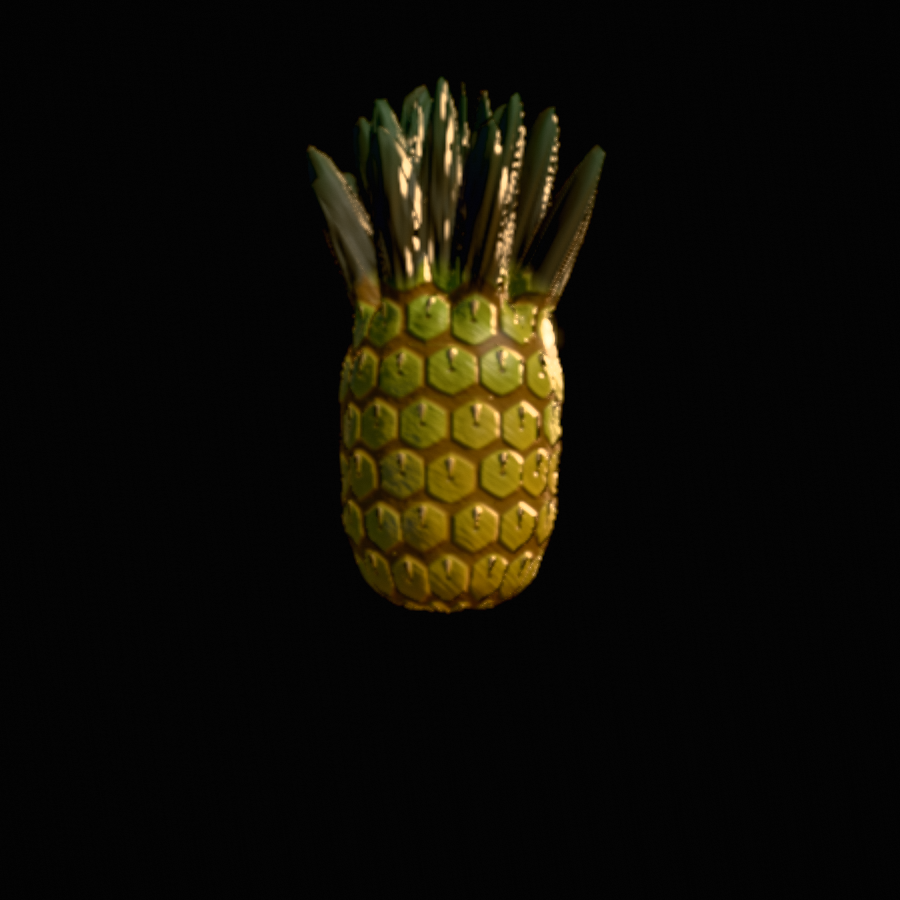
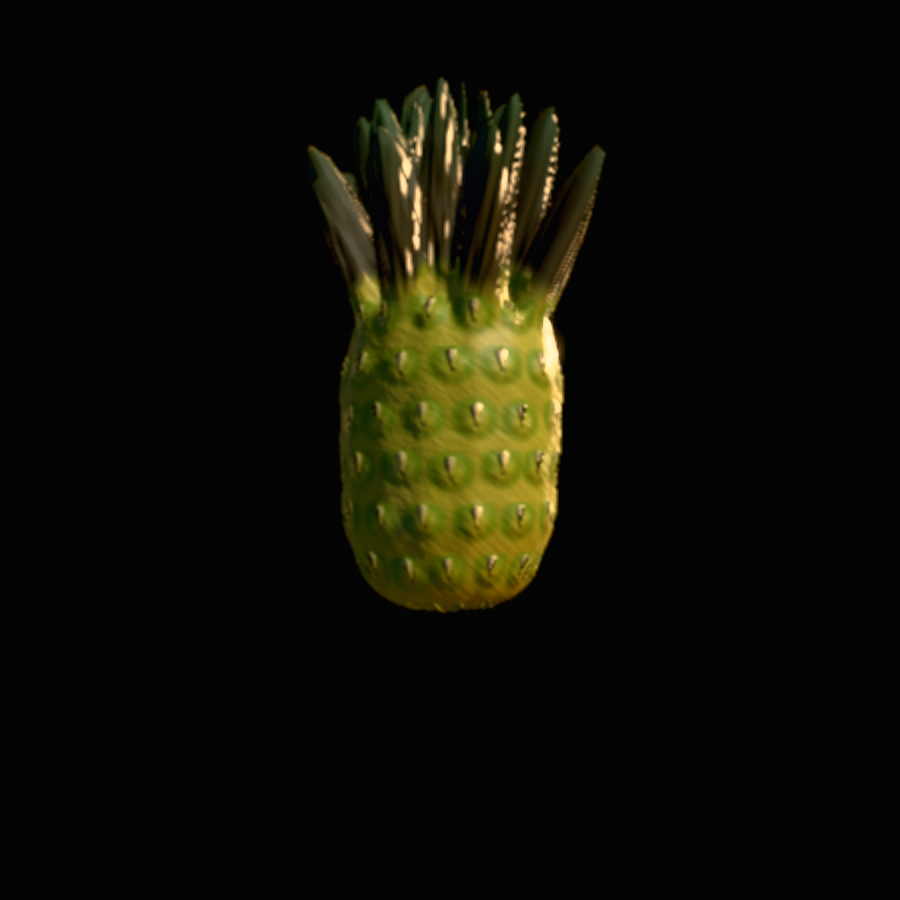
r47b: the pineapple shell is cushions and bracts, not a honeycomb
The device capture of r47's hex plates read as "too geometric, not
organic" — the groove network was a honeycomb, and the reference close-up
says a fruitlet is nothing like that: the upper half is a soft green
cushion ringed by a darker green band (between a circle and a hexagon),
the lower half is pale yellow-green and flows into its neighbours with no
edge at all, and a dry cream bract stands up from the eye at the centre,
its base flaring into a soft pale star.

So the shell is a continuous pale yellow-green skin with cushions and
bracts on it and every transition a gradient: no grooves, no rims, no
plate edges. The cushion outline is the hex norm weighted 35/65 with the
round one; the dark band is green (0.125, 0.195, 0.035), not brown; faint
pinkish-brown veins cross the flats. Relief: cushion up, band as its
shaded underside, bract sharp, star low. Budget: flat 0.300 x 1.08 grain
= 0.324 linear R, cream bract 0.340, both under the 0.418 ceiling.

Changed region(s): [[0.3733, 0.28, 0.6533, 0.6844], [0.4356, 0.2489, 0.4667, 0.28]]

diff --git a/src/fruit/species.js b/src/fruit/species.js
@@ -3880,33 +3880,39 @@ def({
     // stays green. Twelve plates around, alternate rows offset half a cell
     // (a hex packing), one-tap cellPt with a wide margin so the packing is
     // regular-with-a-wobble rather than jittered.
+    // r47b — NOT A HONEYCOMB. The first r47 pass drew the fruitlets as hex
+    // plates with a groove network and the player's device capture read as
+    // "too geometric, not organic". His close-up of the reference says what
+    // a fruitlet actually is: the UPPER half is a soft green cushion ringed
+    // by a darker green band (halfway between a circle and a hexagon); the
+    // LOWER half is pale yellow-green and simply flows into its neighbours —
+    // there is no groove and no edge anywhere; and a dry cream bract stands
+    // up from the eye at the centre, its base flaring into a soft pale star.
+    // So: cushions and bracts on a continuous skin, every edge a gradient.
     const eyes = ({ P, lon }) => {
       const v = P.y;
-      // 14 plates around, ~9 rows up the barrel: on the reference photo the
-      // fruitlets are wider than tall (about 1.4:1) and nearly touch
       const row = v.mul(2.40).add(50.0).toVar();          // positive, for floor/mod
       const shift = floor(row).mod(2.0).mul(0.5);
       const p = vec2(lon.div(Math.PI * 2).add(0.5).mul(14.0).add(shift), row).toVar();
       const c = cellPt(p, 5.0, 1.0, 14, 0.44);
       const d = c.d;
-      // a fruitlet is a HEXAGON, not a coin: a flat-top hex norm in cell
-      // space (rows are offset half a cell, so neighbours sit at ±60°) makes
-      // the plates fill the shell and leaves the grooves as a thin network
-      const ox = abs(c.off.x), oy = abs(c.off.y);
-      // (blended 70/30 with the round distance so the corners are rounded —
-      // a fruitlet is a cushion, not a honeycomb cell)
-      const hx = max(ox, ox.mul(0.5).add(oy.mul(0.92))).mul(0.7).add(d.mul(0.3)).toVar();
-      // the bract: a pale thorn rising from the eye at the plate's centre to
-      // its top edge — wider at the base, drawn to a point
-      const sy = c.off.y;
-      const spike = ss(0.11, 0.02,
-        ox.add(ss(0.34, 0.0, sy).mul(0.09)).add(ss(0.02, -0.05, sy).mul(0.3)).add(ss(0.36, 0.50, sy).mul(0.3))).toVar();
+      const ox = abs(c.off.x), oy = c.off.y;
+      // the cushion sits a little above the eye; its outline is a hex norm
+      // blended half with the round one — the reference's ring shape
+      const cy = oy.sub(0.14);
+      const hd = max(ox, ox.mul(0.5).add(abs(cy).mul(0.92))).mul(0.35)
+        .add(length(vec2(ox, cy.mul(1.25))).mul(0.65)).toVar();
+      const dome = ss(0.55, 0.12, hd).toVar();                       // the soft cushion
+      const ring = ss(0.58, 0.36, hd).mul(ss(0.12, 0.34, hd)).toVar(); // its darker band
+      // the bract: a dry thorn from the eye to the top edge, wider at the base
+      const spike = ss(0.13, 0.02,
+        ox.add(ss(0.34, 0.0, oy).mul(0.10)).add(ss(0.02, -0.06, oy).mul(0.3)).add(ss(0.38, 0.52, oy).mul(0.3))).toVar();
+      // its base flares into a pale five-point star (soft, low)
+      const ang = atan(c.off.y, c.off.x);
+      const star = ss(0.34, 0.06, d.mul(cos(ang.mul(5.0)).mul(0.18).add(1.0))).toVar();
       return {
-        plate: ss(0.51, 0.40, hx).toVar(),    // the raised boss, out to the wall
-        top: ss(0.40, 0.18, hx).toVar(),      // its domed waxy crown
-        rim: ss(0.22, 0.38, hx).mul(ss(0.51, 0.42, hx)).toVar(),   // the lit lip
-        groove: ss(0.40, 0.55, hx).toVar(),   // the network between plates
-        spike, eye: ss(0.11, 0.03, d.add(sy.abs().mul(0.4))).toVar(),
+        dome, ring, spike, star,
+        eye: ss(0.09, 0.02, d).toVar(),
         id: c.id, fade: cellFade(p).toVar(), v,
       };
     };
@@ -3914,40 +3920,38 @@ def({
     return skinMaterial(this, {
       albedo: (f, u) => {
         const e = eyes(f);
-        // ripens base → crown (v is ±1.9 on this body): gold-yellow below, the
-        // shoulder under the crown still green-yellow; plates spread around
-        // the gradient by their own id so no two neighbours match
+        // pale yellow-green skin, a touch more yellow at the base, green
+        // cushions everywhere; per-plate spread so no two neighbours match
         const t = e.v.mul(0.26).add(0.5).clamp(0.0, 1.0);
-        // green comes in patches on the photo, not as a clean gradient: a
-        // low-frequency field over the shoulder gradient, then per-plate spread
-        const patch = grain(f, u, 1.6).mul(0.5).add(0.5);
-        const ripe = ss(0.15, 0.85, t).mul(0.55).add(patch.mul(0.45)).add(e.id.sub(0.5).mul(0.25)).clamp(0.0, 1.0);
-        // Case B budget: 0.320 x 1.07 grain x 1.12 rim = 0.384 linear R, under
-        // contract v5's 0.418 ceiling (the r3 plate was 0.371)
-        const gold = vec3(0.3200, 0.2100, 0.0300), green = vec3(0.1900, 0.2500, 0.0500);
-        const plateC = mix(gold, green, ripe).mul(grain(f, u, 10.0).mul(0.14).add(0.93))
-          .mul(e.rim.mul(0.12).add(1.0)).toVar();
-        // grooves are orange-brown; the bract is pale tan on a dark eye
-        const grooveC = vec3(0.1300, 0.0720, 0.0160);
-        const spikeC = vec3(0.3000, 0.2300, 0.1300), eyeC = vec3(0.0700, 0.0440, 0.0140);
-        const alb = mix(grooveC, plateC, e.plate).toVar();
-        alb.assign(mix(alb, eyeC, e.eye.mul(0.85)));
-        alb.assign(mix(alb, spikeC, e.spike.mul(0.95)));
-        // sub-pixel (the far half, the small tier): settle to the shell's mean
-        return mix(mix(grooveC, plateC, 0.7), alb, e.fade);
+        const base = ss(0.55, 0.05, t).mul(0.5).toVar();
+        const spread = e.id.sub(0.5).mul(0.3);
+        // Case B budget: flat 0.300 x 1.08 grain = 0.324 linear R; cream 0.340
+        const flat = mix(vec3(0.3000, 0.3000, 0.0700), vec3(0.3200, 0.2500, 0.0450), base)
+          .mul(grain(f, u, 9.0).mul(0.16).add(0.92)).toVar();
+        // faint pinkish-brown veins across the flats, like the photo
+        flat.assign(mix(flat, vec3(0.2200, 0.1500, 0.0800), rdg2(vec2(f.P.x.mul(6.0), f.P.y.mul(14.0)), 2).mul(0.12)));
+        const domeC = vec3(0.2000, 0.2650, 0.0600), ringC = vec3(0.1250, 0.1950, 0.0350);
+        const bractC = vec3(0.3400, 0.2950, 0.1800), eyeC = vec3(0.1000, 0.0900, 0.0300);
+        const alb = mix(flat, domeC, e.dome.mul(spread.add(0.75).clamp(0.4, 1.0))).toVar();
+        alb.assign(mix(alb, ringC, e.ring.mul(0.95)));
+        alb.assign(mix(alb, flat.mul(1.06), e.star.mul(0.6)));
+        alb.assign(mix(alb, eyeC, e.eye.mul(0.7)));
+        alb.assign(mix(alb, bractC, e.spike.mul(0.95)));
+        // sub-pixel (the far half, the small tier): settle to the skin's mean
+        return mix(mix(flat, domeC, 0.4), alb, e.fade);
       },
-      // waxy plate crowns, matte grooves, a dry spike
-      rough: (f) => { const e = eyes(f); return mix(float(0.78), float(0.48), e.plate).add(e.spike.mul(0.2)); },
+      // waxy cushions, a slightly drier flat, a dry bract
+      rough: (f) => { const e = eyes(f); return mix(float(0.60), float(0.48), e.dome).add(e.spike.mul(0.25)); },
       relief: (f, u) => {
         const e = eyes(f);
-        return e.plate.mul(1.0).add(e.top.mul(0.30)).sub(e.groove.mul(1.1))
-          .sub(e.eye.mul(0.6)).add(e.spike.mul(2.8))
-          .mul(e.fade).add(grain(f, u, 20.0).mul(0.25));
+        // cushion up, ring as its shaded underside, bract sharp, star low
+        return e.dome.mul(1.3).sub(e.ring.mul(0.25)).add(e.spike.mul(2.4)).add(e.star.mul(0.35))
+          .sub(e.eye.mul(0.5)).mul(e.fade).add(grain(f, u, 20.0).mul(0.22));
       },
     }, {
-      bump: 0.0240,
+      bump: 0.0220,
       mat: {
-        roughness: 0.60, sheen: 0.35, sheenColor: C('#c8a45a'), sheenRoughness: 0.6,
+        roughness: 0.58, sheen: 0.35, sheenColor: C('#c8a45a'), sheenRoughness: 0.6,
         clearcoat: 0.22, clearcoatRoughness: 0.45, specularIntensity: 0.5,
       },
     });
